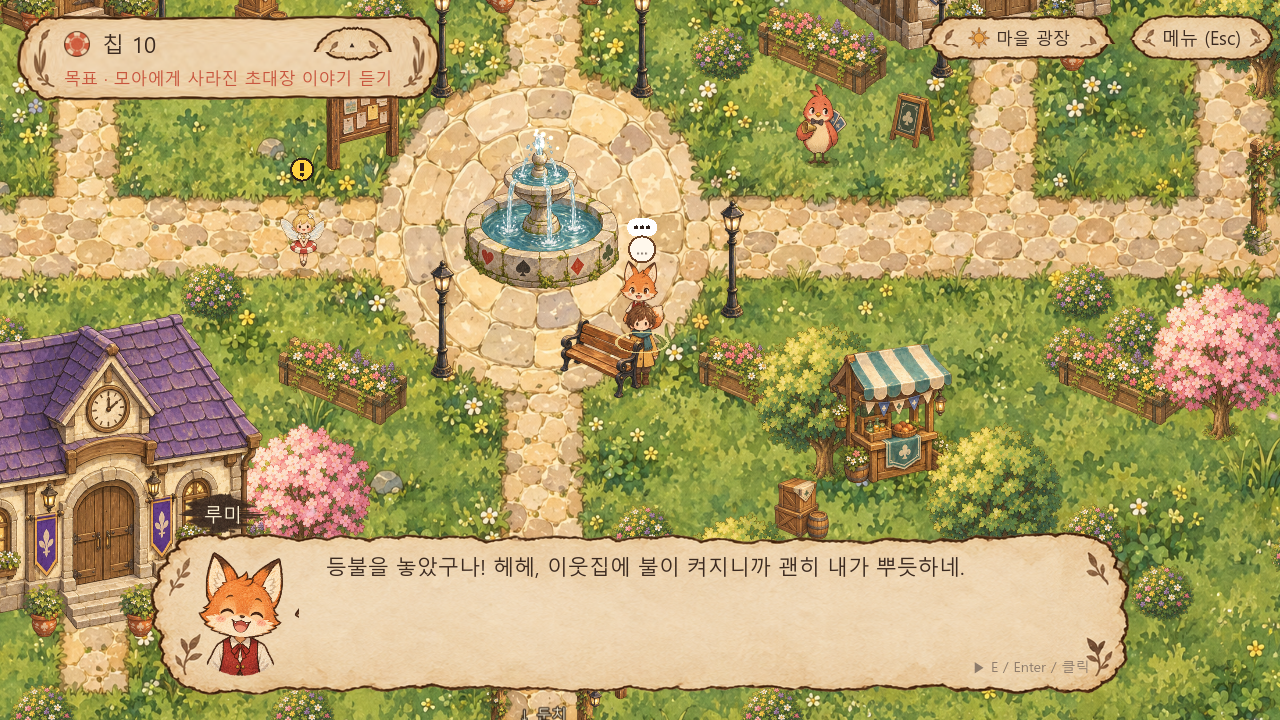
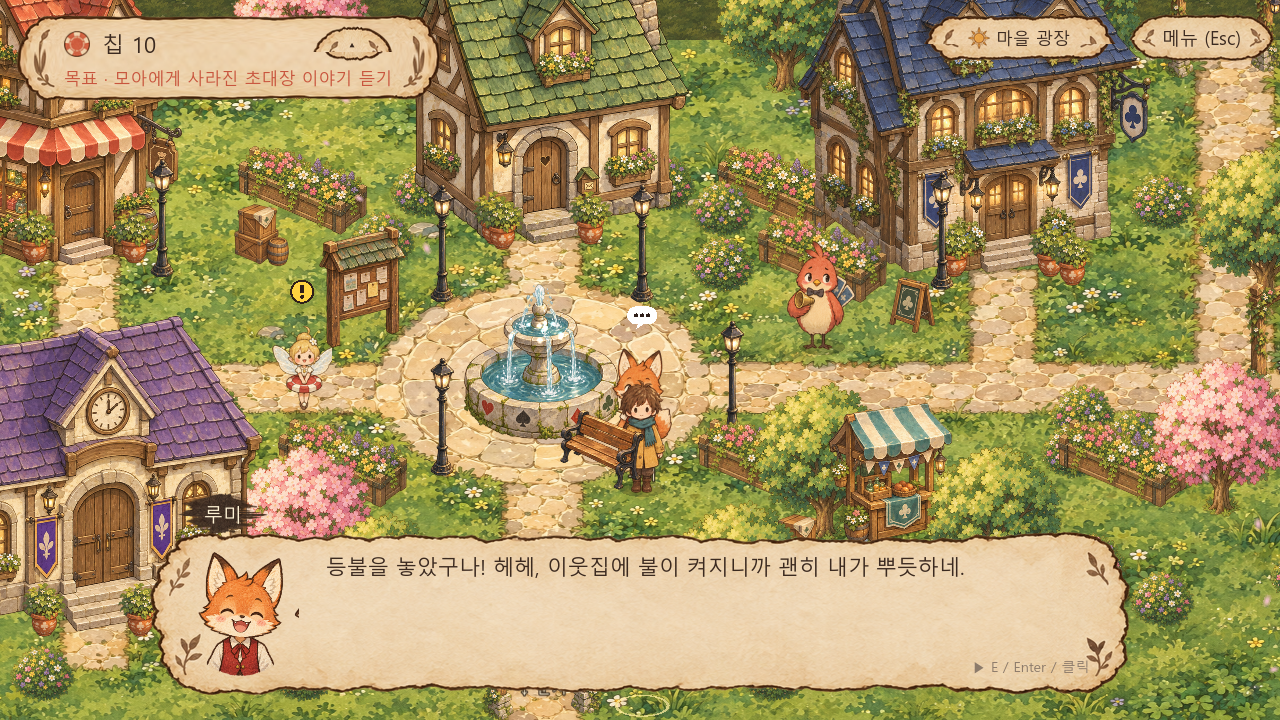
Square view: 3/4 ortho ground (tilt 0.62), characters x1.35, solid props, dimmed edge; before/after
Square only (location art tilt / char_scale / view_margin_top / beyond); gameplay coordinates unchanged.

diff --git a/tools/art/build_square_art.py b/tools/art/build_square_art.py
@@ -53,6 +53,19 @@ g = Image.open(os.path.join(SRC, 'raw', 'ground_plate.png')).convert('RGB')
 g.resize((2048, 1408), Image.LANCZOS).save(os.path.join(SQ, 'final', 'ground.png'), optimize=True)
 S['sq.ground'] = {'path': RES + 'ground.png', 'size': [1600, 1100], 'anchor': [0, 0]}
 
+# --- grass beyond the square's edge: the grass swatch made seamless (half-shifted blend)
+from PIL import ImageChops, ImageFilter
+sw = Image.open(os.path.join(SRC, 'raw', 'sw_grass.png')).convert('RGB').resize((512, 512), Image.LANCZOS)
+shifted = ImageChops.offset(sw, 256, 256)
+mask = Image.new('L', (512, 512))
+mpx = mask.load()
+for yy in range(512):
+    for xx in range(512):
+        dd = max(abs(xx - 256), abs(yy - 256)) / 256.0
+        mpx[xx, yy] = int(255 * (1.0 if dd < 0.55 else max(0.0, 1 - (dd - 0.55) / 0.3)))
+Image.composite(sw, shifted, mask.filter(ImageFilter.GaussianBlur(6))).save(os.path.join(SQ, 'final', 'grass_tile.png'), optimize=True)
+S['sq.grass_tile'] = {'path': RES + 'grass_tile.png', 'size': [256, 256], 'anchor': [0, 0], 'tile': True}
+
 # --- buildings: anchor = the door on the ground line (door.x, rect bottom)
 for key, src, h, ax, ay, pts in [
     ('sq.bld_shop', 'raw/bld_shop.png', 341, 0.62, 0.97, [(-0.42, -0.2, 110, 1.0), (-0.3, -0.62, 70, 0.7), (0.05, -0.68, 70, 0.7)]),

diff --git a/docs/art_direction/SQUARE_ART_LOG.md b/docs/art_direction/SQUARE_ART_LOG.md
@@ -25,3 +25,13 @@
 
 ## 확인
 - 첫 플레이 흐름 E2E(path_a, path_b)와 슬라이스 흐름 통과
+
+## 시점 조정 (대표 피드백: 바닥은 정수리 탑다운, 건물은 3/4라 따로 노는 문제)
+- 비교: `square_view_before_after.png`
+- 광장만 적용: 위치 데이터 `village_square.art`에 `tilt: 0.62`, `char_scale: 1.35`, `view_margin_top: 150`, `beyond: sq.grass_tile`
+  - tilt: 바닥을 세로로 0.62배로 눌러 약 38도 위에서 내려다보는 3/4 시점으로 그림. 건물·소품·캐릭터는 다시 세워서 찌그러지지 않음. 게임 좌표와 판정은 데이터 그대로라 테스트 영향 없음
+  - char_scale: 광장에서만 캐릭터를 1.35배로 그림. 다른 장소는 그대로
+  - 광장 한 화면에 거의 전체가 들어오고, 위쪽 지붕이 잘리지 않게 화면 위 여유를 둠
+- 걸을 수 있는 곳: 화단·수풀·상자·화분을 부딪히는 물체로 바꿈. 광장 밖은 풀을 어둡게 깔아 경계가 보이게 함
+- 남은 점: 바닥 그림은 원래 위에서 본 그림을 눌러 쓴 것이라 돌 모양이 납작함. 이 방향이 맞으면 바닥만 3/4 시점으로 다시 그리면 됨
+- 확인: path_a, path_b, path_c, cc04(모든 장소 걷기)와 슬라이스 흐름 통과
